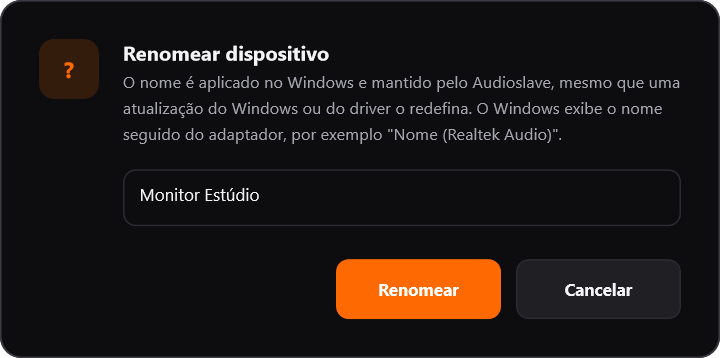
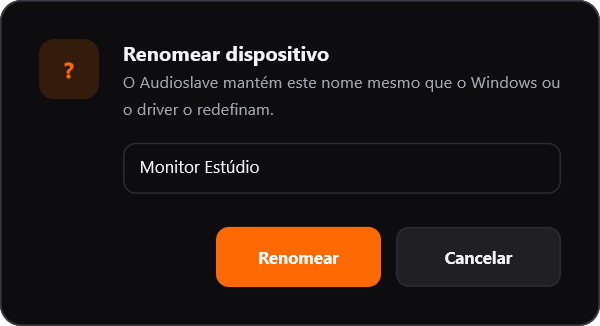
Fix: Make the rename dialog compact
Renaming a device opened the full-width dialog with three lines of explanation for a single text field. Dialogs can now be narrower; the rename dialog uses 400 px, a one-line note and a slimmer field.

diff --git a/src/app/StatusWindow.cpp b/src/app/StatusWindow.cpp
@@ -398,19 +398,18 @@ private:
     {
         auto editor = std::make_unique<juce::TextEditor>();
         editor->setFont (theme::font (15.0f));
-        editor->setIndents (10, 8);
+        editor->setIndents (10, 7);
         editor->setText (device.description.isNotEmpty() ? device.description : device.name, false);
         editor->selectAll();
-        editor->setSize (100, 38);
+        editor->setSize (100, 34);
         auto* raw = editor.get();
 
         theme::DialogOptions options;
         options.icon = juce::MessageBoxIconType::QuestionIcon;
         options.title = "Renomear dispositivo";
-        options.message = utf8 ("O nome é aplicado no Windows e mantido pelo Audioslave, mesmo que uma atualização do Windows "
-                                "ou do driver o redefina. O Windows exibe o nome seguido do adaptador, por exemplo "
-                                "\"Nome (Realtek Audio)\".");
+        options.message = utf8 ("O Audioslave mantém este nome mesmo que o Windows ou o driver o redefinam.");
         options.buttons = { "Renomear", "Cancelar" };
+        options.width = 400;
         options.extra = std::move (editor);
         auto alive = alive_;
         theme::showDialog (std::move (options), [this, alive, id = device.id] (int button, juce::Component* extra)

diff --git a/tools/Screenshots.cpp b/tools/Screenshots.cpp
@@ -280,15 +280,14 @@ private:
                 theme::DialogOptions o;
                 o.icon = juce::MessageBoxIconType::QuestionIcon;
                 o.title = "Renomear dispositivo";
-                o.message = juce::String::fromUTF8 ("O nome é aplicado no Windows e mantido pelo Audioslave, mesmo que uma "
-                                                    "atualização do Windows ou do driver o redefina. O Windows exibe o nome "
-                                                    "seguido do adaptador, por exemplo \"Nome (Realtek Audio)\".");
+                o.message = juce::String::fromUTF8 ("O Audioslave mantém este nome mesmo que o Windows ou o driver o redefinam.");
                 o.buttons = { "Renomear", "Cancelar" };
+                o.width = 400;
                 auto editor = std::make_unique<juce::TextEditor>();
                 editor->setFont (theme::font (15.0f));
-                editor->setIndents (10, 8);
+                editor->setIndents (10, 7);
                 editor->setText (juce::String::fromUTF8 ("Monitor Estúdio"), false);
-                editor->setSize (100, 38);
+                editor->setSize (100, 34);
                 o.extra = std::move (editor);
                 theme::showDialog (std::move (o));
                 break;

diff --git a/src/app/Dialog.cpp b/src/app/Dialog.cpp
@@ -5,7 +5,6 @@ namespace audioslave::theme
 {
 namespace
 {
-constexpr int dialogWidth = 480;
 constexpr int padding = 26;
 constexpr int iconSize = 40;
 constexpr float corner = 14.0f;
@@ -31,7 +30,7 @@ public:
         layoutText();
         const int extraH = options_.extra != nullptr ? options_.extra->getHeight() + 14 : 0;
         const int h = padding + (int) std::ceil (text_.getHeight()) + 24 + extraH + 40 + padding;
-        setSize (dialogWidth, juce::jmax (150, h));
+        setSize (options_.width, juce::jmax (150, h));
         setWantsKeyboardFocus (true);
     }
 
@@ -140,7 +139,7 @@ private:
             s.append (options_.message, font (14.5f), textDim);
         }
         s.setLineSpacing (3.0f);
-        const int textWidth = dialogWidth - 2 * padding - (options_.icon != juce::MessageBoxIconType::NoIcon ? iconSize + 16 : 0);
+        const int textWidth = options_.width - 2 * padding - (options_.icon != juce::MessageBoxIconType::NoIcon ? iconSize + 16 : 0);
         text_.createLayout (s, (float) textWidth);
     }
 

diff --git a/src/app/Dialog.h b/src/app/Dialog.h
@@ -17,6 +17,7 @@ struct DialogOptions
     juce::String message;
     juce::StringArray buttons { "OK" };   // the first one is the main action
     bool destructive = false;             // paint the main action red
+    int width = 480;                      // compact dialogs (e.g. a single text field) use less
     std::unique_ptr<juce::Component> extra; // shown under the message (owned)
 };
 
